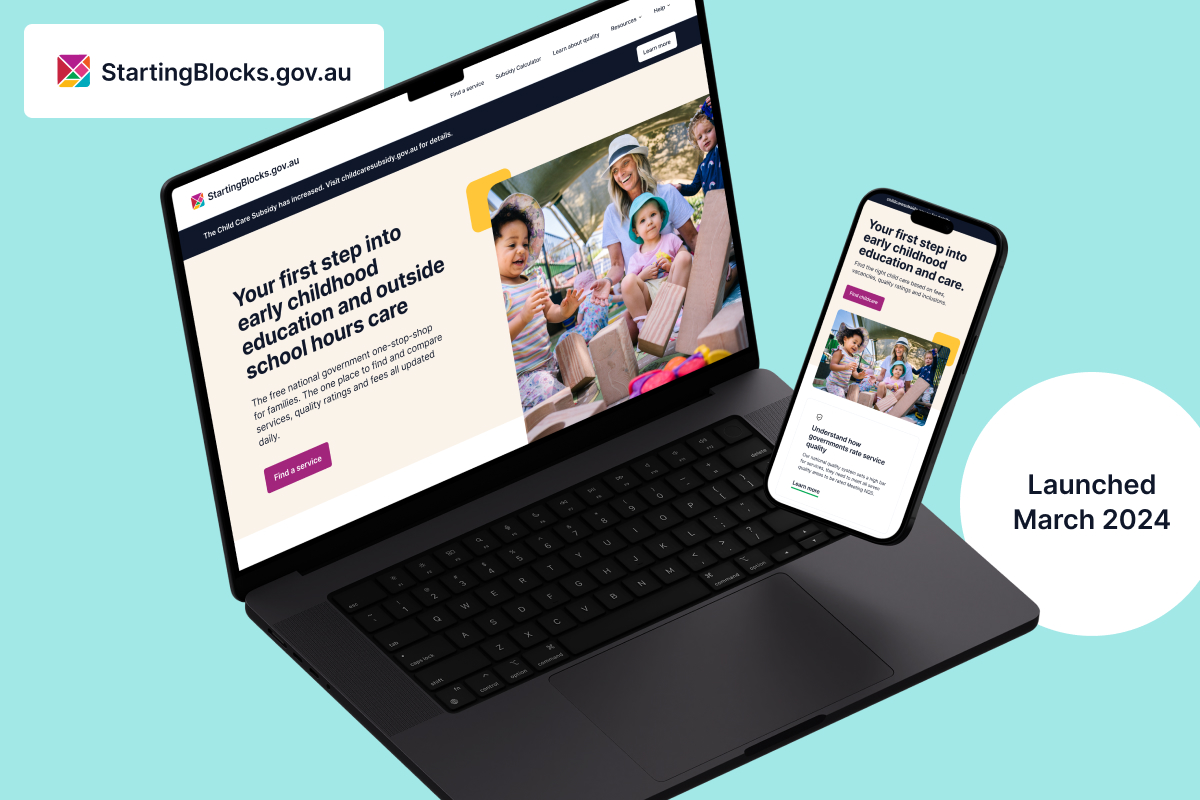
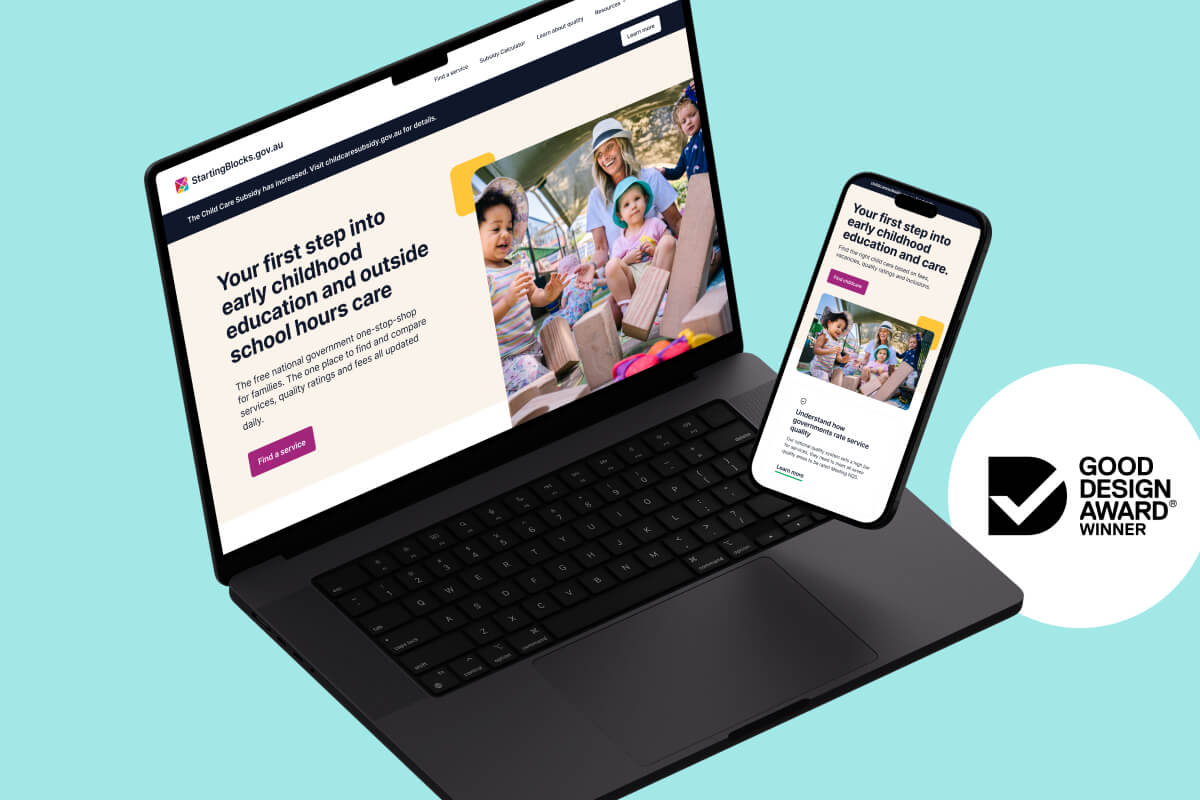
replace email

diff --git a/code/startingblocks.html b/code/startingblocks.html
@@ -90,7 +90,7 @@
 <div class="col-xs-12 visible-xs-block">     
 <p class="subhead"><u>Responsive website</u></p>
 
-<p class="intro-xs">Research shows quality early education and care leads to better health, education and employment outcomes later in life. Finding the right early childhood education is hugely important to&nbsp;families.<br><br>Over 18 weeks we redesigned and launched the new look StartingBlocks.gov.au – Australia's free government website for families to find early childhood education services and learn about quality early&nbsp;learning.</p>
+<p class="intro-xs">Research shows quality early education and care leads to better health, education and employment outcomes later in life. Finding the right early childhood education is hugely important to&nbsp;families.<br><br>Over the past two years I redesigned and launched the new look StartingBlocks.gov.au – Australia's free government website for families to find early childhood education services and learn about quality early&nbsp;learning.</p>
 </div>
 <div class="col-xs-12 visible-xs-block">     
 <p class="subhead"><u>Projects</u></p>
@@ -106,7 +106,8 @@
 <br>
 <p class="subhead"><u>Links</u></p>
 
-<li><a href="https://startingblocks.gov.au/" target="_blank" rel="noreferrer noopener"><span class="secondary caption">Live site</span></a></li><br>
+<li><a href="https://startingblocks.gov.au/" target="_blank" rel="noreferrer noopener"><span class="secondary caption">Live site</span></a></li>
+<li><a href="https://good-design.org/projects/supporting-families-to-make-the-best-possible-early-education-decisions/" target="_blank" rel="noreferrer noopener"><span class="secondary caption">Good Design Award</span></a></li>
 </div>
     
     </div>
@@ -280,7 +281,7 @@
                         
 <img src="../links/images/star.svg" alt="decorative star" height="24" width="17" /><p class="subhead tag"><br><u>Responsive website</u></p>
 <h3>Starting Blocks</h3>
-<p class="intro">Research shows quality early education and care leads to better health, education and employment outcomes later in life. Finding the right early childhood education is hugely important to&nbsp;families.<br><br>Over 18 weeks we redesigned and launched the new look StartingBlocks.gov.au – Australia's free government website for families to find early childhood education services and learn about quality early&nbsp;learning.</p>
+<p class="intro">Research shows quality early education and care leads to better health, education and employment outcomes later in life. Finding the right early childhood education is hugely important to&nbsp;families.<br><br>Over two years I redesigned and launched the new look StartingBlocks.gov.au – Australia's free government website for families to find early childhood education services and learn about quality early&nbsp;learning.</p>
    
                     
 <p class="subhead"><u>Outputs</u></p>
@@ -298,6 +299,7 @@
 <p class="subhead"><u>Links</u></p>
 
 <li><a href="https://startingblocks.gov.au/" target="_blank" rel="noreferrer noopener"><span class="secondary caption">Live site</span></a></li>
+<li><a href="https://good-design.org/projects/supporting-families-to-make-the-best-possible-early-education-decisions/" target="_blank" rel="noreferrer noopener"><span class="secondary caption">Good Design Award</span></a></li>
 <br><!--
 <a href="https://good-design.org/projects/nrma-expert-advice-building-the-financial-resilience-of-australian-small-businesses/" target="_blank" rel="noreferrer noopener"><img src="../links/images/nrma/GDA.png" alt="" height="120" width="120"/></a>-->
             </div>           

diff --git a/code/connectwithcountry.html b/code/connectwithcountry.html
@@ -105,9 +105,11 @@
 <br>
 <p class="subhead"><u>Links</u></p>
 
-<li><a href="https://connectwithcountry.tafensw.edu.au/" target="_blank" rel="noreferrer noopener"><span class="secondary caption">Live site</span></a><br><br>Note: A process of consultation and collaboration is required for those in cultural authority to provide information about each Country. iOS and Android apps are built and awaiting launch.</li>
+<li><a href="https://connectwithcountry.tafensw.edu.au/" target="_blank" rel="noreferrer noopener"><span class="secondary caption">Live site</span></a><br>
+    <a href="https://good-design.org/projects/championing-first-nations-voices-to-set-the-standard-for-a-culturally-competent-australia/" target="_blank" rel="noreferrer noopener"><span class="secondary caption">Good Design Award</span></a>
+    <br><br>Note: A process of consultation and collaboration is required for those in cultural authority to provide information about each Country. iOS and Android apps are built and awaiting launch.</li>
 
-<li><a href="https://good-design.org/projects/energy-security-safeguard-platform-the-data-to-power-a-sustainable-future/" target="_blank" rel="noreferrer noopener"><span class="secondary caption">Good Design Award</span></a></li><br>
+
 </div>
     
     </div>
@@ -224,6 +226,7 @@ We believe this app and framework for cultural knowledge is truly community-led.
 <img src="../links/images/tafe/SamLloyd_TAFENSW_18.jpg" alt=""/>
 <img src="../links/images/tafe/SamLloyd_TAFENSW_14.jpg" alt=""/>
 <img src="../links/images/tafe/SamLloyd_TAFENSW_15.jpg" alt=""/>
+<img src="../links/images/tafe/SamLloyd_TAFENSW_19.jpg" alt=""/>
 
 
 
@@ -298,7 +301,9 @@ We believe this app and framework for cultural knowledge is truly community-led.
 <br>
 <p class="subhead"><u>Links</u></p>
 
-<li><a href="https://connectwithcountry.tafensw.edu.au/" target="_blank" rel="noreferrer noopener"><span class="secondary caption">Live site</span></a><br><br>Note: A process of consultation and collaboration is required for those in cultural authority to provide information about each Country. iOS and Android apps are built and awaiting launch.</li>
+<li><a href="https://connectwithcountry.tafensw.edu.au/" target="_blank" rel="noreferrer noopener"><span class="secondary caption">Live site</span></a><br>
+    <a href="https://good-design.org/projects/championing-first-nations-voices-to-set-the-standard-for-a-culturally-competent-australia/" target="_blank" rel="noreferrer noopener"><span class="secondary caption">Good Design Award</span></a>
+    <br><br>Note: A process of consultation and collaboration is required for those in cultural authority to provide information about each Country. iOS and Android apps are built and awaiting launch.</li>
             </div>           
             </div>
             </div>

diff --git a/index.html b/index.html
@@ -201,8 +201,7 @@
                         <span>03&#x2002;&#x2002;&#x2002;&#x2002;</span>
                         <span class="primary">NRMA Expert Advice</span></a></p></td></table>
         
-        <table class="post" style="background-image:url(../links/images/nrma/SamLloyd_NRMA_5.jpg)" alt="NRMA Expert Advice">
-        <td class="secondary caption"><p><a href="//samlloyd.com.au/nrma"><span class="baselineshift arrowsize">&#x2192;</span></a></p></td></table>
+
         
         <table class="post" style="background-image:url(../links/images/nrma/SamLloyd_NRMA_11.jpg)" alt="NRMA Expert Advice">
         <td class="secondary caption"><p><a href="//samlloyd.com.au/nrma"><span class="baselineshift arrowsize">&#x2192;</span></a></p></td></table>
@@ -394,8 +393,7 @@ $(document).ready(function(){
             <img class="xs-scroll" src="links/images/nrma/SamLloyd_NRMA_1h.jpg" alt="NRMA Expert Advice" />
             <div class="xs-caption"><p>&nbsp;&nbsp;NRMA Expert Advice</p></div>
             </a></div>
-        <a href="//samlloyd.com.au/nrma">
-            <img class="xs-scroll" src="links/images/nrma/SamLloyd_NRMA_5.jpg" alt="NRMA Expert Advice" /></a>
+       
         <a href="//samlloyd.com.au/nrma">
             <img class="xs-scroll" src="links/images/nrma/SamLloyd_NRMA_11.jpg" alt="NRMA Expert Advice" /></a>
         <div class="xs-captionwrap"><a href="//samlloyd.com.au/nrma">
@@ -506,7 +504,7 @@ $(document).ready(function(){
         <p>
         <a href="//samlloyd.com.au/about">&#x2002;a bit about me&#x2002;</a>
         &#x2044;
-        <a href="mailto:hello@samlloyd.com.au" style="position:relative">&#x2002;<img class="mail" src="links/images/mail.svg" />&#x2002;&#x2002;&#x2002;</a> 
+        <a href="https://www.linkedin.com/in/sam-lloyd-26505866/" style="position:relative">&#x2002;<img class="mail" src="links/images/mail.svg" />&#x2002;&#x2002;&#x2002;</a> 
         </p>  
         </div></div>
  
@@ -525,7 +523,7 @@ $(document).ready(function(){
 <span style="color:#d4e7ff">&#x2591;</span>
 <a href="//samlloyd.com.au/about">&#x2002;a bit about me&#x2002;</a>
 &#x2044;
-<a href="mailto:mail@samlloyd.com.au" style="position:relative">&#x2002;<img src="links/images/mail.svg" height="8rem" width="auto" style="position:relative; top:-0.12rem" />&#x2002;</a>
+<a href="https://www.linkedin.com/in/sam-lloyd-26505866/" style="position:relative">&#x2002;<img src="links/images/mail.svg" height="8rem" width="auto" style="position:relative; top:-0.12rem" />&#x2002;</a>
 <span style="color:#d4e7ff">&#x2591;</span>
 </p>  
 

diff --git a/code/about.html b/code/about.html
@@ -107,7 +107,7 @@
     <div class="sidebar">
         <div class="spacer"></div>
     
-        <a href="mailto:hello@samlloyd.com.au" style="display:block; width:12em"><div id="sidebar1"><img  src="../links/images/mail.svg" height=8rem width=auto style="padding-left:1rem; padding-right:2rem"/><p>say <span class="kern-tighter">g'</span>day</p><div class="sidebar-arrow visible-xs-inline-block">&#x2192;</div></div></a>
+        <a href="https://www.linkedin.com/in/sam-lloyd-26505866/" style="display:block; width:12em"><div id="sidebar1"><img  src="../links/images/mail.svg" height=8rem width=auto style="padding-left:1rem; padding-right:2rem"/><p>say <span class="kern-tighter">g'</span>day</p><div class="sidebar-arrow visible-xs-inline-block">&#x2192;</div></div></a>
         
         <a href="//github.com/binchicken" style="display:block; width:12em"><div id="sidebar3"><img  src="../links/images/git.svg" height=12rem width=auto style="padding-left:0.23rem; padding-right:1.46rem"/><p><span class="kern-looser">@</span>binchicken</p><div class="sidebar-arrow visible-xs-inline-block">&#x2192;</div></div></a>
         
